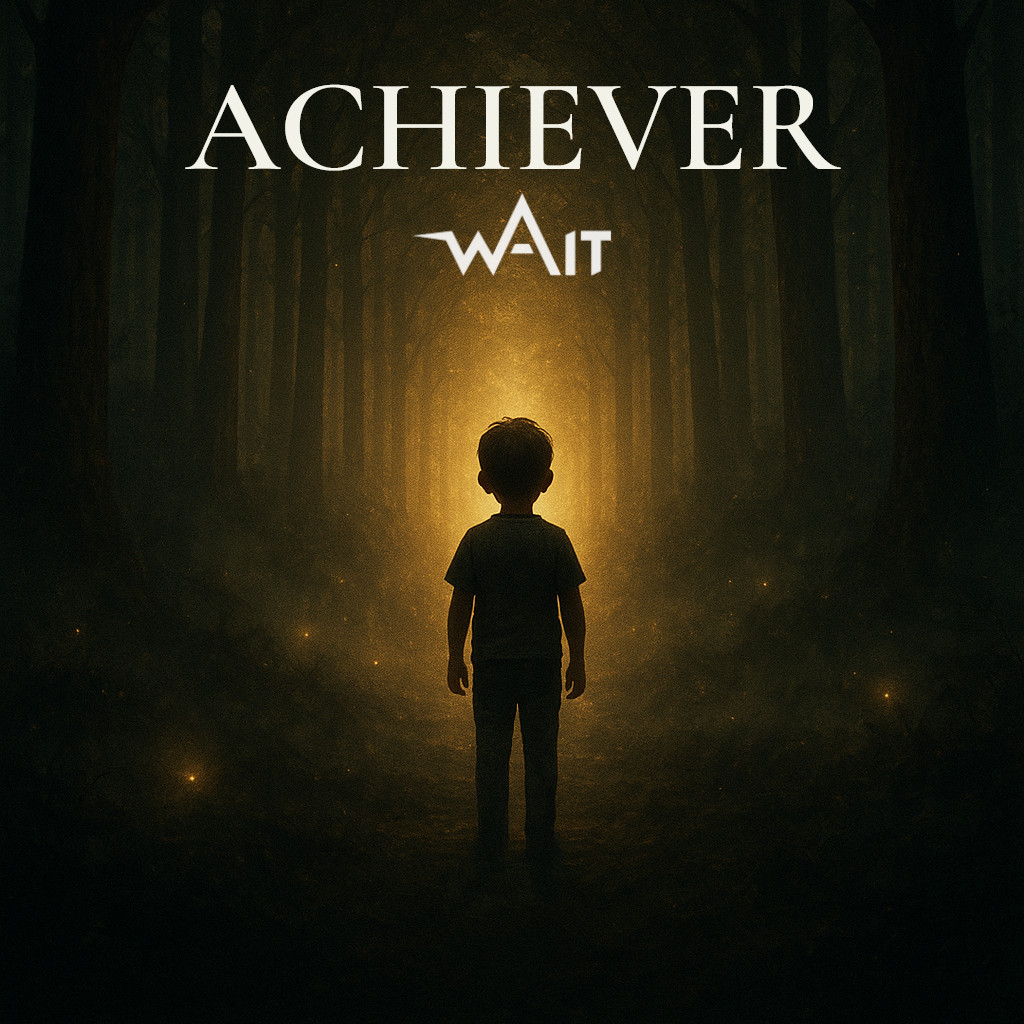
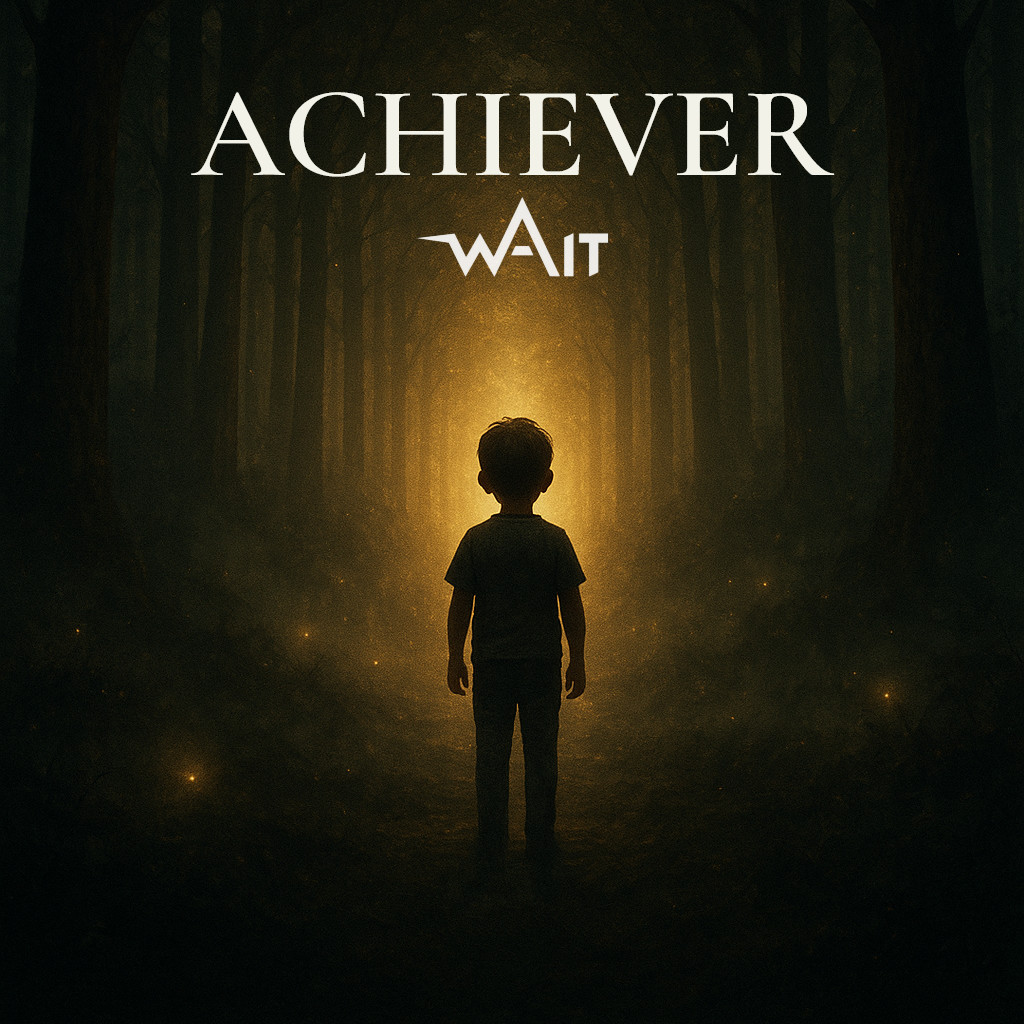
Add

Changed region(s): [[0.1875, 0.0625, 0.625, 0.2812], [0.625, 0.0625, 0.8125, 0.1875]]

diff --git a/src/app/novinky/page.tsx b/src/app/novinky/page.tsx
@@ -70,7 +70,7 @@ function AsideContent({
               showFilter ? "text-white" : ""
             }`}
           >
-            Filtr
+            Filtrovat
             <Filter
               className={`w-5 h-5 ml-1 ${showFilter ? "fill-current" : ""}`}
             />
@@ -187,7 +187,7 @@ function AsideContent({
               transition={{ duration: 0.5, ease: "easeOut" }}
               className="cursor-pointer p-3 space-y-1 rounded-lg bg-white/5 hover:bg-white/10 text-gray-200 transition"
             >
-              <span className="inline-block border-neonPink border-2 text-white px-2 py-0.5 rounded-full text-xs font-semibold mb-1">
+              <span className="inline-block border-neonPink border-2 text-white px-2 py-0.5 rounded-full text-xs font-medium mb-1">
                 {item.category}
               </span>
               <p className="text-xs text-gray-400">{item.date}</p>
@@ -324,7 +324,13 @@ export default function NewsPage() {
                       src={mainArticle.image}
                       alt={mainArticle.title}
                       fill
-                      className="object-cover w-full h-full transition-transform duration-300 ease-out group-hover:scale-105"
+                      className="
+                        object-cover object-top
+                        scale-[1.05]
+                        transition-transform duration-500 ease-out
+                        group-hover:-translate-y-3
+                        will-change-transform transform-gpu
+                      "
                     />
                   </div>
 
@@ -333,7 +339,7 @@ export default function NewsPage() {
 
                   {/* Text panel – spodní overlay */}
                   <div className="absolute bottom-4 left-4 right-4 sm:bottom-6 sm:left-6 sm:right-6 text-white space-y-1 sm:space-y-2">
-                    <span className="inline-block border-neonPink border-2 text-white px-2 py-0.5 rounded-full text-xs font-semibold mb-1">
+                    <span className="inline-block border-neonPink border-2 text-white px-2 py-0.5 rounded-full text-xs font-medium mb-1">
                       {mainArticle.category}
                     </span>
 
@@ -351,10 +357,18 @@ export default function NewsPage() {
                     </p>
 
                     {/* CTA */}
-                    <div className="mt-2 flex items-center gap-1 sm:gap-2 text-neonPink text-sm font-semibold opacity-80 group-hover:opacity-100 transition-all duration-300">
-                      <span className="tracking-wide">Přečíst více</span>
+                    <div
+                      className="
+                        mt-auto pt-1
+                        flex items-center gap-2
+                        text-neonPink text-sm font-medium
+                        opacity-60 group-hover:opacity-100
+                        transition-all duration-300
+                      "
+                    >
+                      <span>Přečíst více</span>
                       <ArrowRight
-                        size={16}
+                        size={18}
                         className="transition-transform duration-300 ease-out group-hover:translate-x-1.5"
                       />
                     </div>
@@ -404,29 +418,44 @@ export default function NewsPage() {
                         src={item.image}
                         alt={item.title}
                         fill
-                        className="object-cover monitor:object-top transition-transform duration-300 ease-out group-hover:scale-105 will-change-transform transform-gpu"
+                        className="object-cover monitor:object-top transition-transform duration-300 ease-out
+                        group-hover:-translate-y-2 will-change-transform transform-gpu"
                       />
                     </div>
 
                     {/* TEXT */}
                     <div className="p-4 sm:p-5 monitor:p-6 text-white flex flex-col flex-[2]">
                       <div className="space-y-1.5 monitor:space-y-2">
-                        <span className="inline-block border-neonPink border-2 px-2 py-0.5 rounded-full text-xs font-semibold mb-1">
+                        <span className="inline-block border-neonPink border-2 px-2 py-0.5 rounded-full text-xs font-medium mb-1">
                           {item.category}
                         </span>
+
                         <p className="text-xs text-gray-400">{item.date}</p>
-                        <h3 className="text-lg sm:text-xl font-semibold mt-1">{item.title}</h3>
-                        <p className="text-sm text-gray-300 mt-1 sm:mt-2 line-clamp-3">
+                        {/* TITLE */}
+                        <h3 className="text-lg sm:text-xl font-semibold text-white leading-snug">
+                          {item.title}
+                        </h3>
+
+                        {/* EXCERPT */}
+                        <p className="text-sm text-gray-300 line-clamp-3">
                           {item.excerpt}
                         </p>
                       </div>
 
                       {/* CTA */}
-                      <div className="mt-auto flex items-center justify-start gap-1 sm:gap-2 text-neonPink text-sm font-semibold opacity-70 group-hover:opacity-100 transition-all duration-300">
-                        <span className="tracking-wide">Přečíst více</span>
+                      <div
+                        className="
+                          mt-auto pt-4
+                          flex items-center gap-2
+                          text-neonPink text-sm font-medium
+                          opacity-60 group-hover:opacity-100
+                          transition-all duration-300
+                        "
+                      >
+                        <span>Přečíst více</span>
                         <ArrowRight
                           size={18}
-                          className="transition-transform duration-300 group-hover:translate-x-1.5"
+                          className="transition-transform duration-300 ease-out group-hover:translate-x-1.5"
                         />
                       </div>
                     </div>
@@ -506,7 +535,7 @@ export default function NewsPage() {
       
                     {/* CONTENT section */}
                     <div className="bg-neutral-800 p-6 max-h-[270px] overflow-y-auto space-y-4">
-                      <span className="inline-block border-neonPink border-2 text-white px-2 py-0.5 rounded-full text-xs font-semibold">
+                      <span className="inline-block border-neonPink border-2 text-white px-2 py-0.5 rounded-full text-xs font-medium">
                         {active.category}
                       </span>
                       <p className="text-sm text-gray-400">{active.date}</p>

diff --git a/src/app/page.tsx b/src/app/page.tsx
@@ -163,27 +163,42 @@ export default function Home() {
                         src={item.image}
                         alt={item.title}
                         fill
-                        className="object-cover monitor:object-top transition-transform duration-300 ease-out group-hover:scale-105 will-change-transform transform-gpu"
+                        className="object-cover object-top
+                        transition-transform duration-300 ease-out
+                        group-hover:-translate-y-2 will-change-transform transform-gpu"
                       />
                     </div>
 
                     {/* TEXT */}
                     <div className="p-4 sm:p-5 monitor:p-6 text-white flex flex-col flex-[2]">
                       <div className="space-y-1.5 monitor:space-y-2">
-                        <span className="inline-block border-neonPink border-2 px-2 py-0.5 rounded-full text-xs font-semibold mb-1">
+                        <span className="inline-block border-neonPink border-2 px-2 py-0.5 rounded-full text-xs font-medium mb-1">
                           {item.category}
                         </span>
 
                         <p className="text-xs text-gray-400">{item.date}</p>
-                        <h3 className="text-lg sm:text-xl font-semibold mt-1">{item.title}</h3>
-                        <p className="text-sm text-gray-300 mt-1 sm:mt-2 line-clamp-3">
+                        {/* TITLE */}
+                        <h3 className="text-lg sm:text-xl font-semibold text-white leading-snug">
+                          {item.title}
+                        </h3>
+
+                        {/* EXCERPT */}
+                        <p className="text-sm text-gray-300 line-clamp-3">
                           {item.excerpt}
                         </p>
                       </div>
 
                       {/* CTA */}
-                      <div className="mt-auto flex items-center justify-start gap-1 sm:gap-2 text-neonPink text-sm font-semibold opacity-70 group-hover:opacity-100 transition-all duration-300">
-                        <span className="tracking-wide">Přečíst více</span>
+                      <div
+                        className="
+                          mt-auto pt-4
+                          flex items-center gap-2
+                          text-neonPink text-sm font-medium
+                          opacity-60 group-hover:opacity-100
+                          transition-all duration-300
+                        "
+                      >
+                        <span>Přečíst více</span>
                         <ArrowRight
                           size={18}
                           className="transition-transform duration-300 ease-out group-hover:translate-x-1.5"
@@ -313,7 +328,7 @@ export default function Home() {
 
               {/* CONTENT section */}
               <div className="bg-neutral-800 p-6 max-h-[270px] overflow-y-auto space-y-4">
-                <span className="inline-block border-neonPink border-2 text-white px-2 py-0.5 rounded-full text-xs font-semibold">
+                <span className="inline-block border-neonPink border-2 text-white px-2 py-0.5 rounded-full text-xs font-medium">
                   {active.category}
                 </span>
                 <p className="text-sm text-gray-400">{active.date}</p>

diff --git a/src/app/hudba/page.tsx b/src/app/hudba/page.tsx
@@ -12,7 +12,7 @@ import daydream from "../../../public/assets/images/music/daydream.jpg";
 import follow from "../../../public/assets/images/music/followMeToHell.jpg";
 import horoscop from "../../../public/assets/images/music/horoscop.jpg";
 import hate from "../../../public/assets/images/music/hateYou.jpg";
-import achiever from "../../../public/assets/images/music/achieverGold.jpg";
+import achiever from "../../../public/assets/images/music/achiever.jpg";
 import texture from "../../../public/assets/textures/texture.jpg";
 import appleMusic from "../../../public/assets/icons/appleMusic.svg";
 import spotify from "../../../public/assets/icons/spotify.svg";
